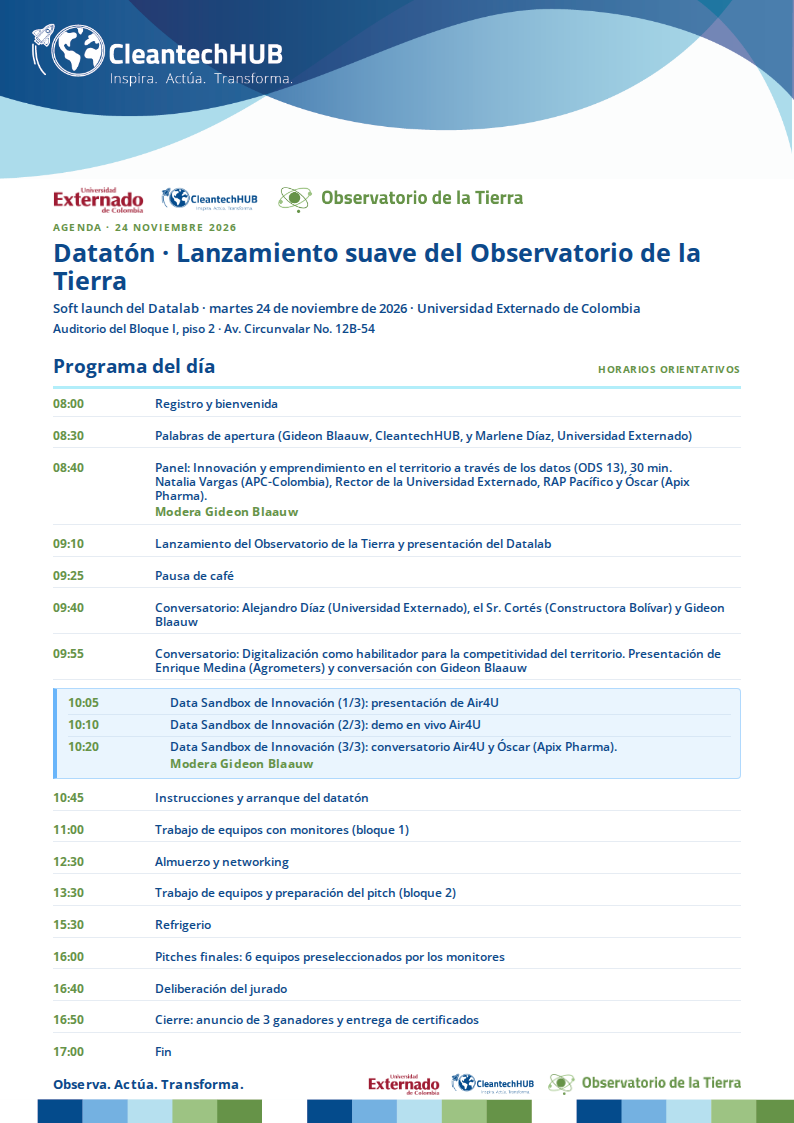
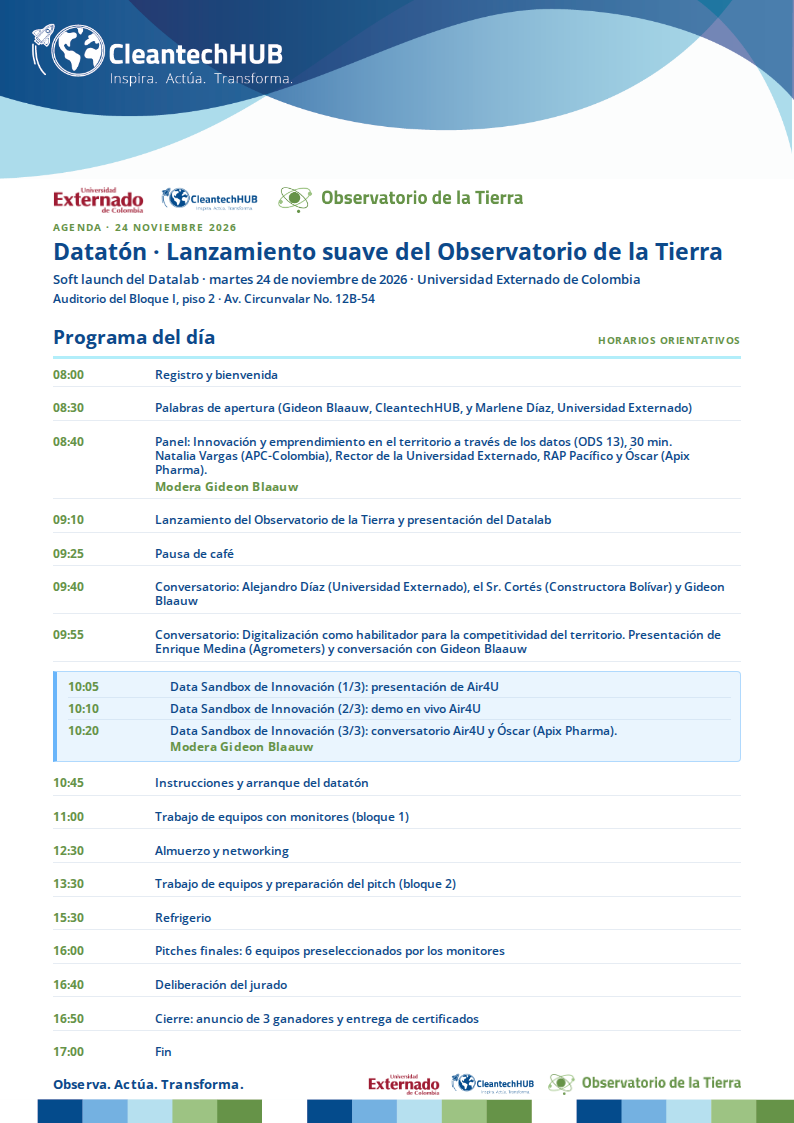
Agenda v5: flush letterhead bands and table indent
Anchor header/footer bands to page edges, zero schedule table indent, replace Calibri theme defaults with Open Sans, and tighten PDF title line break.

Changed region(s): [[0.0605, 0.2182, 0.937, 0.935]]

diff --git a/decks/dataton-2026-agenda/agenda-dataton-24nov-v5.html b/decks/dataton-2026-agenda/agenda-dataton-24nov-v5.html
@@ -96,10 +96,11 @@
     }
     h1 {
       margin: 0 0 1.5mm;
-      font-size: 18.5pt;
+      font-size: 17.25pt;
       font-weight: 700;
       line-height: 1.12;
-      max-width: 178mm;
+      max-width: 182mm;
+      text-wrap: balance;
       letter-spacing: normal;
       word-spacing: normal;
       color: var(--blue);
@@ -272,7 +273,7 @@
         <img src="logos/observatorio-color.png" alt="Observatorio de la Tierra"/>
       </div>
       <p class="eyebrow">AGENDA · 24 NOVIEMBRE 2026</p>
-      <h1>Datatón · Lanzamiento suave del Observatorio de la Tierra</h1>
+      <h1>Datatón · Lanzamiento suave del Observatorio de&nbsp;la&nbsp;Tierra</h1>
       <p class="subtitle">Soft launch del Datalab · martes 24 de noviembre de 2026 · Universidad Externado de Colombia</p>
       <p class="venue">Auditorio del Bloque I, piso 2 · Av. Circunvalar No. 12B-54</p>
     </div>

diff --git a/decks/dataton-2026-agenda/build-agenda-docx.py b/decks/dataton-2026-agenda/build-agenda-docx.py
@@ -20,6 +20,10 @@ FOOTER_BAND = LETTERHEAD / "CTH_footer_band.png"
 OUT = ROOT / "agenda-dataton-24nov-v5.docx"
 LOGOS = ROOT / "logos"
 A4_WIDTH = Inches(210 / 25.4)
+A4_HEIGHT_EMU = int(Mm(297))
+PAGE_WIDTH_EMU = int(Mm(210))
+HEADER_BAND_CY = int(PAGE_WIDTH_EMU * 288 / 1275)
+FOOTER_BAND_CY = int(PAGE_WIDTH_EMU * 37 / 1275)
 VENUE = "Auditorio del Bloque I, piso 2 · Av. Circunvalar No. 12B-54"
 
 NAVY = RGBColor(0x0C, 0x49, 0x8A)
@@ -153,6 +157,25 @@ def configure_opensans_defaults(doc: Document) -> None:
         sz = OxmlElement("w:sz")
         r_pr.append(sz)
     sz.set(qn("w:val"), "18")
+    scrub_style_calibri(styles)
+    scrub_theme_fonts(doc)
+
+
+def scrub_style_calibri(styles_el) -> None:
+    for rfonts in styles_el.iter(qn("w:rFonts")):
+        for attr in ("w:ascii", "w:hAnsi", "w:cs", "w:eastAsia"):
+            if rfonts.get(qn(attr)) in ("Calibri", "Calibri Light"):
+                rfonts.set(qn(attr), BODY_FONT)
+
+
+def scrub_theme_fonts(doc: Document) -> None:
+    for rel in doc.part.rels.values():
+        if "theme" not in rel.reltype:
+            continue
+        blob = rel.target_part.blob
+        if isinstance(blob, str):
+            blob = blob.encode()
+        rel.target_part._blob = blob.replace(b"Calibri", b"Open Sans")
 
 
 def apply_opensans_all(doc: Document) -> None:
@@ -168,6 +191,97 @@ def apply_opensans_all(doc: Document) -> None:
 def clear_element_children(element) -> None:
     for child in list(element):
         element.remove(child)
+
+
+def inline_to_page_anchor(
+    run,
+    *,
+    x_emu: int = 0,
+    y_emu: int = 0,
+    behind: bool = True,
+) -> int:
+    """Convert inline picture to wp:anchor at page offset; return cy in EMU."""
+    drawing = run._r.find(qn("w:drawing"))
+    if drawing is None:
+        return 0
+    inline = drawing.find(qn("wp:inline"))
+    if inline is None:
+        return 0
+    extent = inline.find(qn("wp:extent"))
+    cx = extent.get("cx")
+    cy = extent.get("cy")
+    inner = [c for c in list(inline) if c.tag != qn("wp:extent")]
+
+    anchor = OxmlElement("wp:anchor")
+    for key, val in (
+        ("distT", "0"),
+        ("distB", "0"),
+        ("distL", "0"),
+        ("distR", "0"),
+        ("simplePos", "0"),
+        ("relativeHeight", "251658240"),
+        ("behindDoc", "1" if behind else "0"),
+        ("locked", "0"),
+        ("layoutInCell", "1"),
+        ("allowOverlap", "1"),
+    ):
+        anchor.set(key, val)
+
+    simple = OxmlElement("wp:simplePos")
+    simple.set("x", "0")
+    simple.set("y", "0")
+    anchor.append(simple)
+
+    pos_h = OxmlElement("wp:positionH")
+    pos_h.set("relativeFrom", "page")
+    off_h = OxmlElement("wp:posOffset")
+    off_h.text = str(x_emu)
+    pos_h.append(off_h)
+    anchor.append(pos_h)
+
+    pos_v = OxmlElement("wp:positionV")
+    pos_v.set("relativeFrom", "page")
+    off_v = OxmlElement("wp:posOffset")
+    off_v.text = str(y_emu)
+    pos_v.append(off_v)
+    anchor.append(pos_v)
+
+    ext = OxmlElement("wp:extent")
+    ext.set("cx", cx)
+    ext.set("cy", cy)
+    anchor.append(ext)
+    for child in inner:
+        anchor.append(child)
+
+    drawing.remove(inline)
+    drawing.append(anchor)
+    return int(cy)
+
+
+def add_band_paragraph(container, image_path: pathlib.Path, y_emu: int = 0) -> int:
+    """Full-bleed band image anchored to the page; returns band height (EMU)."""
+    para = container.add_paragraph()
+    para.alignment = WD_ALIGN_PARAGRAPH.LEFT
+    para.paragraph_format.space_before = Pt(0)
+    para.paragraph_format.space_after = Pt(0)
+    set_paragraph_mark_font(para, 9)
+    run = para.add_run()
+    run.add_picture(str(image_path), width=A4_WIDTH)
+    return inline_to_page_anchor(run, x_emu=0, y_emu=y_emu, behind=True)
+
+
+def set_table_indent_zero(table) -> None:
+    tbl_pr = table._tbl.tblPr
+    if tbl_pr is None:
+        tbl_pr = OxmlElement("w:tblPr")
+        table._tbl.insert(0, tbl_pr)
+    old = tbl_pr.find(qn("w:tblInd"))
+    if old is not None:
+        tbl_pr.remove(old)
+    tbl_ind = OxmlElement("w:tblInd")
+    tbl_ind.set(qn("w:w"), "0")
+    tbl_ind.set(qn("w:type"), "dxa")
+    tbl_pr.append(tbl_ind)
 
 
 def add_cobrand_color(paragraph) -> None:
@@ -186,16 +300,12 @@ def add_cobrand_color(paragraph) -> None:
 def setup_header_footer(section) -> None:
     header = section.header
     clear_element_children(header._element)
-    hp = header.add_paragraph()
-    hp.alignment = WD_ALIGN_PARAGRAPH.LEFT
-    hp.paragraph_format.space_before = Pt(0)
-    hp.paragraph_format.space_after = Pt(3)
-    hp.add_run().add_picture(str(HEADER_BAND), width=A4_WIDTH)
-    set_paragraph_mark_font(hp, 9)
+    add_band_paragraph(header, HEADER_BAND, y_emu=0)
+    band_pt = HEADER_BAND_CY / 914400 * 72
 
     lp = header.add_paragraph()
     lp.alignment = WD_ALIGN_PARAGRAPH.LEFT
-    lp.paragraph_format.space_before = Pt(4)
+    lp.paragraph_format.space_before = Pt(max(band_pt * 0.42, 50))
     lp.paragraph_format.space_after = Pt(6)
     add_cobrand_color(lp)
     set_paragraph_mark_font(lp, 9)
@@ -209,12 +319,9 @@ def setup_header_footer(section) -> None:
     fp.add_run("    ")
     add_cobrand_color(fp)
     set_paragraph_mark_font(fp, 9)
-    bp = footer.add_paragraph()
-    bp.alignment = WD_ALIGN_PARAGRAPH.LEFT
-    bp.paragraph_format.space_before = Pt(2)
-    bp.paragraph_format.space_after = Pt(0)
-    bp.add_run().add_picture(str(FOOTER_BAND), width=A4_WIDTH)
-    set_paragraph_mark_font(bp, 9)
+
+    y_bottom = max(A4_HEIGHT_EMU - FOOTER_BAND_CY, 0)
+    add_band_paragraph(footer, FOOTER_BAND, y_emu=y_bottom)
 
 
 def clear_body(doc: Document) -> None:
@@ -277,12 +384,14 @@ def build() -> None:
     r1 = c1.paragraphs[0].add_run("HORARIOS ORIENTATIVOS")
     set_run_font(r1, 9, bold=True, color=GREEN)
     set_cell_bottom_border(head)
+    set_table_indent_zero(head)
 
     table = doc.add_table(rows=1 + len(ROWS), cols=2)
     table.alignment = WD_TABLE_ALIGNMENT.CENTER
     table.autofit = False
     table.columns[0].width = Inches(0.72)
     table.columns[1].width = Inches(5.48)
+    set_table_indent_zero(table)
 
     hdr = table.rows[0].cells
     set_cell_shading(hdr[0], "0C498A")
@@ -321,6 +430,7 @@ def build() -> None:
                 set_run_font(run, 9, bold=False, color=BLUE_TEXT)
 
     apply_opensans_all(doc)
+    scrub_style_calibri(doc.styles.element)
     doc.save(OUT)
     print(OUT)
 
